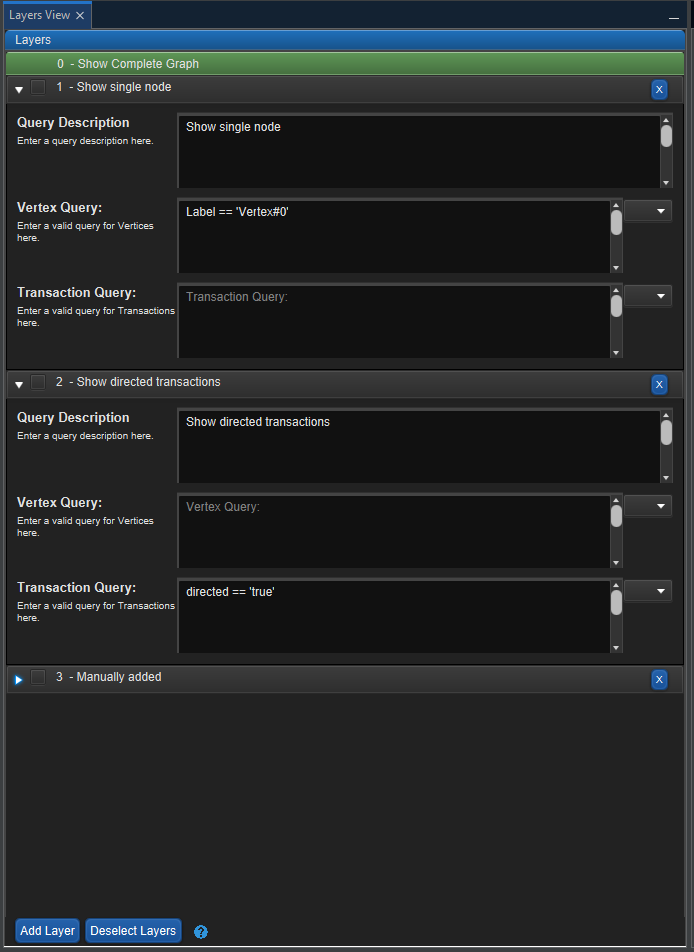
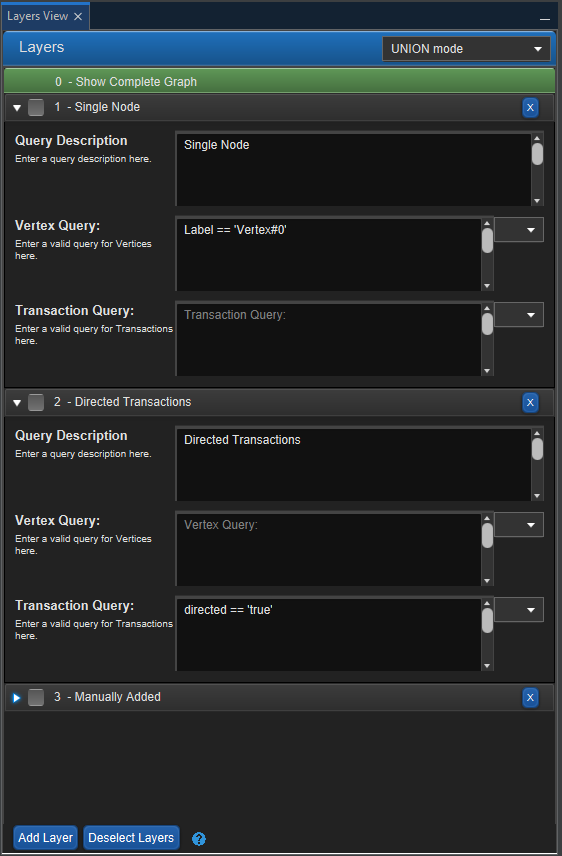
Update Help pages and Whats new

Changed region(s): [[0.0, 0.0, 1.0, 1.0]]

diff --git a/CoreLayersView/src/au/gov/asd/tac/constellation/views/layers/query/BitMaskQueryCollection.java b/CoreLayersView/src/au/gov/asd/tac/constellation/views/layers/query/BitMaskQueryCollection.java
@@ -179,7 +179,7 @@ public class BitMaskQueryCollection {
      * @param bitMaskAttributeId
      * @param visibleAttributeId
      */
-    public void updateBitMasks(final GraphWriteMethods graph, final int bitMaskAttributeId, final int visibleAttributeId, boolean unionMode) {
+    public void updateBitMasks(final GraphWriteMethods graph, final int bitMaskAttributeId, final int visibleAttributeId, final boolean unionMode) {
         if (this.update(graph)) {
             final int elementCount = elementType.getElementCount(graph);
             for (int position = 0; position < elementCount; position++) {

diff --git a/CoreLayersView/release/modules/ext/docs/CoreLayersView/src/au/gov/asd/tac/constellation/views/layers/layers-view.md b/CoreLayersView/release/modules/ext/docs/CoreLayersView/src/au/gov/asd/tac/constellation/views/layers/layers-view.md
@@ -67,33 +67,29 @@ is 64.
 When a single layer is toggled on, that layer will be displayed on the
 graph. When multiple manual layers are selected, it will display
 everything on layer x, as well as everything on layer y (i.e. the union
-of all selected layers). Combining both query and manual layers will
-produce undefined results and should not be used when accuracy of
-results is needed.
+of all selected layers). 
 
 To delete a layer, simply press the Delete button next to the layer you want to 
 remove.
 
-## Layer Types
+## Layer Allocation
 
 <img src="../ext/docs/CoreLayersView/src/au/gov/asd/tac/constellation/views/layers/resources/layers-context.png" alt="Right-click context menu used for adding elements to a manual
 layer." />  
 
-There are two main layer types within the Layers View. The
-differentiating factor of the two being the way elements are chosen to
-be displayed.
+There are two main ways for a graph element to be allocated to a layer:
 
-### Manual Layer
+### Manual Allocation to a Layer
 
-A manual layer is a static layer only containing elements added via
-right click context menu (see above image) or manually set layer_mask
-Attribute.
+Graph Elements can be manually added to a layer via the right click context menu (see above image) or by manually setteing the layer_mask
+Attribute via the Attribute Editor.  
+Note: When any layers are active, any graph elements that are manually created/added to the graph will have their layer_mask automatically allocated to the set of active layers.
 
-### Query Layer
+### Query Allocation to a Layer
 
-A query layer is a dynamic layer that shows the elements represented by
-the specified Vertex and Transaction queries. Query layers are
-dynamically recalculated upon changes to those attributes being queried.
+When a query is defined on a layer it provides dynamic means to include graph element on the layer as determined by
+the specified Vertex and Transaction queries. Queries are
+dynamically recalculated upon changes to any attributes being queried.
 This is to ensure the accuracy of the shown layer. e.g. Layer 1 has a
 vertex query described as Label == 'Vertex #0'. This will show the
 vertex with that label. If you then change Vertex #0's label to
@@ -106,3 +102,16 @@ NOTE: Layers View does not allow for the use of the assignment operator
 Click
 [here](../ext/docs/CoreGraphFramework/src/au/gov/asd/tac/constellation/graph/expressions-framework.md)
 for more information on the structure of the expression framework
+
+## Union and Intersection Modes  
+  
+At the top right of the Layers View you can switch between <img src="../ext/docs/CoreLayersView/src/au/gov/asd/tac/constellation/views/layers/resources/UnionMode.png" alt="Layers View : Union Mode" /> and <img src="../ext/docs/CoreLayersView/src/au/gov/asd/tac/constellation/views/layers/resources/IntersectionMode.png" alt="Layers View : Intersection Mode" />  
+In Union Mode, when multiple layers are selected/active, then __all__ graph elements belonging to __any__ active layer will be displayed.  
+In Intersection Mode, when multiple layers are selected/active, then __only__ graph elements belonging to __every__ active layer will be displayed.  
+
+Union sample:  
+<img src="../ext/docs/CoreLayersView/src/au/gov/asd/tac/constellation/views/layers/resources/Layers2and7union.png" alt="Layers View : Union sample" />
+
+Intersection sample:  
+<img src="../ext/docs/CoreLayersView/src/au/gov/asd/tac/constellation/views/layers/resources/Layers2and7intersection.png" alt="Layers View : Intersection sample" />
+
